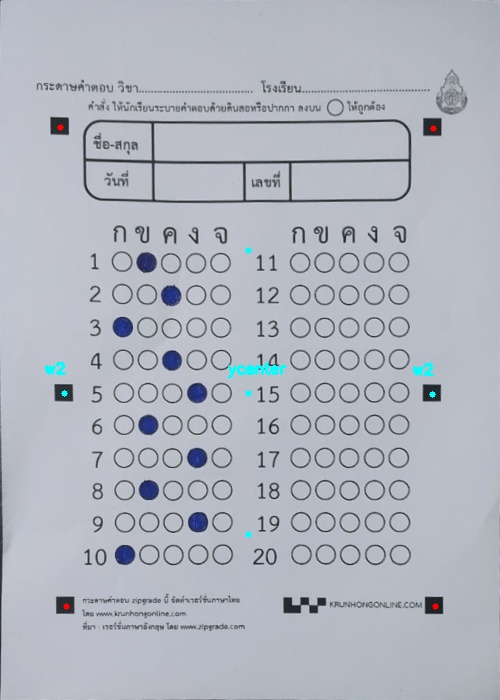
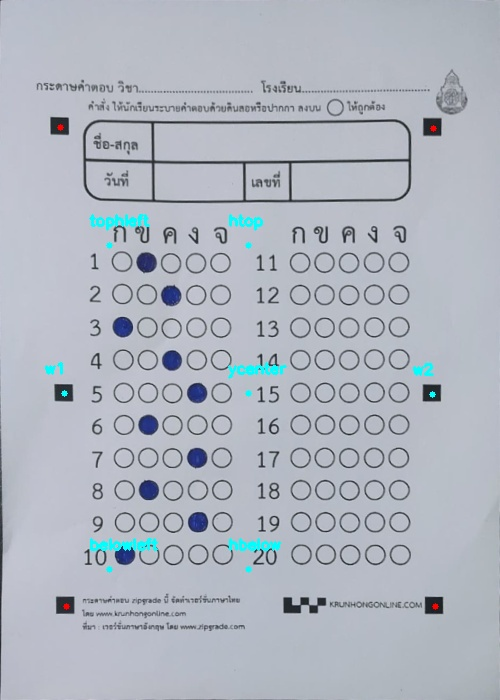
feat : add quick

diff --git a/Week9/AwswerSheetDetection/DetectVideos.py b/Week9/AwswerSheetDetection/DetectVideos.py
@@ -1,0 +1,208 @@
+import cv2
+import matplotlib.pyplot as plt
+import numpy as np
+import utils as ut
+import imutils
+
+
+def check_small_rectangles_centroid1(contours, img_contours, area_size=800):
+    centroids = []
+    for cnt in contours:
+        area = cv2.contourArea(cnt)
+        if area < area_size:
+            peri = cv2.arcLength(cnt, True)
+            approx = cv2.approxPolyDP(cnt, 0.02 * peri, True)
+            if len(approx) == 4:
+                M = cv2.moments(cnt)
+                cx = int(M['m10'] / M['m00'])
+                cy = int(M['m01'] / M['m00'])
+                cv2.circle(img_contours, (cx, cy), 3, (0, 0, 255), -1)
+                centroid = (cx, cy)
+                centroids.append(centroid)
+    return centroids, img_contours
+
+def puttext_on_image1(img, text, x, y):
+
+    cv2.putText(img, text, (x-20,y-20), cv2.FONT_HERSHEY_SIMPLEX, 0.5, (255, 255, 0), 2)
+    return img
+
+
+def find_big_rectangle(contours):
+    check = False
+    for c in contours:
+        area = cv2.contourArea(c)
+        # print(area)
+        arc_length = 0.15 * cv2.arcLength(c, True)  # Find the perimeter of closed curve 10%
+        no_of_points_found = cv2.approxPolyDP(c, arc_length, True)
+        if len(no_of_points_found) == 4:
+            main_contour = no_of_points_found
+            check = True
+            break
+    if check == True:
+        return main_contour
+    return []
+
+
+def get_iamge_frame():
+    if video:
+        _, frame = cap.read()
+        image = frame.copy()
+    else:
+        image = cv2.imread('papersheet4.jpg')
+    return image
+
+
+def resize_image(image):
+    if image.shape[0] > image.shape[1]:
+        r = 600.0 / image.shape[1]
+        dim = (1000, int(image.shape[1] * r))
+    else:
+        r = 600.0 / image.shape[1]
+        dim = (int(image.shape[1] * r), 1000)
+    image = cv2.resize(image, dim)
+    return image
+
+
+def set_main_contour_pointer_rectengle(main_contour):
+    topleft = main_contour[1][0]
+    top_right = main_contour[0][0]
+    bottom_left = main_contour[2][0]
+    bottom_right = main_contour[3][0]
+    pointers1 = np.float32([topleft, top_right, bottom_left, bottom_right])
+    pointers2 = np.float32([[0, 0], [sizepaper[0], 0], [0, sizepaper[1]], [sizepaper[0], sizepaper[1]]])
+    matrix = cv2.getPerspectiveTransform(pointers1, pointers2)
+    return matrix
+
+
+def check_small_rectangles(contours, area_size=800):
+    rectengle_cnts = []
+    for cnt in contours:
+        area = cv2.contourArea(cnt)
+        if area < area_size:
+            peri = cv2.arcLength(cnt, True)
+            approx = cv2.approxPolyDP(cnt, 0.02 * peri, True)
+            if len(approx) == 4:
+                rectengle_cnts.append(cnt)
+    return rectengle_cnts
+
+
+
+sizepaper = (widthImg, heightImg) = (500, 700)
+cap = cv2.VideoCapture(0, cv2.CAP_DSHOW)
+video = True
+ut.initializetrackbars()
+while True:
+    image = get_iamge_frame()
+    # image = resize_image(org)
+    # cv2.imshow("Original", frame)
+    copy = image.copy()
+    image = cv2.cvtColor(image, cv2.COLOR_BGR2GRAY)
+    image = cv2.bilateralFilter(image, 5, 21, 21)  # Blur the image for better edge detection
+    # Edge detection using canny algorithm
+    edged = cv2.Canny(image, 30, 160)
+    (contours, _) = cv2.findContours(edged, cv2.RETR_EXTERNAL, cv2.CHAIN_APPROX_SIMPLE)
+    contours = sorted(contours, key=cv2.contourArea, reverse=True)[:10]
+    img = image.copy()
+    # cv2.drawContours(img,contours,-1,color=(255, 255, 255),thickness = 2)
+    main_contour = find_big_rectangle(contours)
+    img = cv2.cvtColor(img, cv2.COLOR_GRAY2BGR)
+    if len(main_contour) != 0:
+        cv2.drawContours(img, [main_contour], -1, (0, 255, 0), 2)
+        # Set Pointer Rectengle
+        matrix_paper = set_main_contour_pointer_rectengle(main_contour)
+        cropper_paper = cv2.warpPerspective(copy, matrix_paper, sizepaper)
+        cv2.imshow("Cropped", cropper_paper)
+        imageResult = cropper_paper.copy()
+        # WRAPPER SMALL RECTANGLES IN PAGE
+        cv2.waitKey(1)
+        # cv2.imwrite('cropper.jpg', imageResult)
+        ##################################################################################################
+        imgGray = cv2.cvtColor(imageResult, cv2.COLOR_BGR2GRAY)
+        imgGray = cv2.GaussianBlur(imageResult, (7, 7), 0)
+        # imgThresh = cv2.adaptiveThreshold(imgGray, 255, cv2.ADAPTIVE_THRESH_GAUSSIAN_C, cv2.THRESH_BINARY_INV, 11, 2)
+        thres, area_size = ut.valtrackbars()  # GET TRACK BAR VALUES FOR THRESHOLDS
+        imgThresholdCanny = cv2.Canny(imgGray, thres[0], thres[1])
+        kernel = np.ones((2, 2))
+        imgDial = cv2.dilate(imgThresholdCanny, np.ones((2, 2)), iterations=2)  # APPLY DILATION
+        imgThresholdCanny2 = cv2.erode(imgDial, kernel, iterations=1)  # APPLY EROSION
+        # cv2.imshow("Canny", imgThresholdCanny)
+        # cv2.imshow("imgDial", imgDial)
+        # cv2.imshow("imgThresholdCanny2", imgThresholdCanny2)
+        # cv2.waitKey(1)
+
+        ## FIND ALL COUNTOURS
+        imgContours = imageResult.copy()  # COPY IMAGE FOR DISPLAY PURPOSES
+        imgBigContour = imageResult.copy()  # COPY IMAGE FOR DISPLAY PURPOSES
+        contours, hierarchy = cv2.findContours(imgThresholdCanny2, cv2.RETR_EXTERNAL,
+                                               cv2.CHAIN_APPROX_SIMPLE)  # FIND ALL CONTOURS
+        centroids, imgContours = check_small_rectangles_centroid1(contours, imgContours, area_size)
+
+        # sort the centroids by y coordinate
+        if len(centroids) > 0 and len(centroids) == 6:
+            centroids = sorted(centroids, key=lambda x: x[1])
+            if centroids[2][0] < centroids[3][0]:
+                w1 = centroids[2]
+                w2 = centroids[3]
+            else:
+                w1 = centroids[3]
+                w2 = centroids[2]
+            ycenter = [(((w2[0] - w1[0]) // 2) + w1[0]), w1[1]]
+            htopcenter = [ycenter[0], (ycenter[1] - centroids[0][1]) // 2 + centroids[0][1] - 15]
+            hbelowcenter = [ycenter[0], (centroids[-1][1] - ycenter[1]) // 2 + ycenter[1] + 70]
+            tophleft = [w1[0] + 45, htopcenter[1]]
+            belowleft = [w1[0] + 45, hbelowcenter[1]]
+            pstC1 = np.float32([tophleft, htopcenter, belowleft, hbelowcenter])
+            pstC2 = np.float32([[0, 0], [175, 0], [0, 320], [175, 320]])
+
+            # write color
+            cv2.circle(imgContours, w1, 3, (255, 255, 0), -1)
+            imgContours = puttext_on_image1(imgContours, 'w1', w1[0], w1[1])
+            cv2.circle(imgContours, w2, 3, (255, 255, 0), -1)
+            imgContours = puttext_on_image1(imgContours, "w2", w2[0], w2[1])
+            cv2.circle(imgContours, ycenter, 3, (255, 255, 0), -1)
+            imgContours = puttext_on_image1(imgContours, "ycenter", ycenter[0], ycenter[1])
+            cv2.circle(imgContours, htopcenter, 3, (255, 255, 0), -1)
+            imgContours = puttext_on_image1(imgContours, "htop", htopcenter[0], htopcenter[1])
+            cv2.circle(imgContours, hbelowcenter, 3, (255, 255, 0), -1)
+            imgContours = puttext_on_image1(imgContours, "hbelow", hbelowcenter[0], hbelowcenter[1])
+            cv2.circle(imgContours, tophleft, 3, (255, 255, 0), -1)
+            imgContours = puttext_on_image1(imgContours, "tophleft", tophleft[0], tophleft[1])
+            cv2.circle(imgContours, belowleft, 3, (255, 255, 0), -1)
+            imgContours = puttext_on_image1(imgContours, "belowleft", belowleft[0], belowleft[1])
+
+            # checkimg = ut.four_point_transform(imgBigContour, wrapPoints)
+
+            matrix1 = cv2.getPerspectiveTransform(pstC1, pstC2)
+            croper1 = cv2.warpPerspective(imgBigContour, matrix1, (175, 320))
+            gray = cv2.cvtColor(croper1, cv2.COLOR_BGR2GRAY)
+            # blur1 = cv2.GaussianBlur(gray, (3, 3), 0)
+            thresh = cv2.threshold(gray, 0, 255, cv2.THRESH_BINARY_INV | cv2.THRESH_OTSU)[1]
+            # thresh = cv2.erode(thresh, None, iterations=3)
+            cnts = cv2.findContours(thresh, cv2.RETR_EXTERNAL, cv2.CHAIN_APPROX_SIMPLE)
+            cnts = imutils.grab_contours(cnts)
+            CntEdits = []
+            centroids1 = []
+            for c in cnts:
+                area = cv2.contourArea(c)
+                peri = cv2.arcLength(c, True)
+                approx = cv2.approxPolyDP(c, 0.02 * peri, True)
+                if len(approx) > 4:
+                    M = cv2.moments(c)
+                    cx = int(M['m10'] / M['m00'])
+                    cy = int(M['m01'] / M['m00'])
+                    cv2.circle(croper1, (cx, cy), 3, (0, 255, 0), -1)
+                    # cv2.drawContours(croper1, [approx], 0, (0, 255, 0),)
+                    centroid = (cx, cy)
+                    centroids1.append(centroid)
+            cv2.imshow("croper", croper1)
+
+            cv2.imshow("thresh", thresh)
+
+        # cv2.imwrite("choine.jpg", imgContours)
+        cv2.imshow("Contours", imgContours)
+        cv2.waitKey(1)
+
+
+    img = cv2.resize(img, (img.shape[0] // 2, img.shape[1] // 2))
+    cv2.imshow("Main outline", img)
+    cv2.waitKey(1)

diff --git a/Week9/AwswerSheetDetection/DetectChoine.py b/Week9/AwswerSheetDetection/DetectChoine.py
@@ -5,8 +5,7 @@ import utils as ut
 import imutils
 from skimage import measure, morphology
 
-
-def check_small_rectangles_centroid(contours, img_contours,area_size=800):
+def check_small_rectangles_centroid1(contours, img_contours, area_size=800):
     centroids = []
     for cnt in contours:
         area = cv2.contourArea(cnt)
@@ -22,7 +21,7 @@ def check_small_rectangles_centroid(contours, img_contours,area_size=800):
                 centroids.append(centroid)
     return centroids, img_contours
 
-def puttext_on_image(img, text, x, y):
+def puttext_on_image1(img, text, x, y):
 
     cv2.putText(img, text, (x-20,y-20), cv2.FONT_HERSHEY_SIMPLEX, 0.5, (255, 255, 0), 2)
     return img
@@ -45,15 +44,15 @@ while True:
     # cv2.imshow("imgDial", imgDial)
     # cv2.imshow("imgThresholdCanny2", imgThresholdCanny2)
     # cv2.waitKey(1)
-    
-    
-    
+
+
+
      ## FIND ALL COUNTOURS
     imgContours = imageResult.copy()  # COPY IMAGE FOR DISPLAY PURPOSES
     imgBigContour = imageResult.copy()  # COPY IMAGE FOR DISPLAY PURPOSES
     contours, hierarchy = cv2.findContours(imgThresholdCanny2, cv2.RETR_EXTERNAL, cv2.CHAIN_APPROX_SIMPLE)  # FIND ALL CONTOURS
-    centroids, imgContours = check_small_rectangles_centroid(contours, imgContours, area_size)
-    
+    centroids, imgContours = check_small_rectangles_centroid1(contours, imgContours, area_size)
+
     # sort the centroids by y coordinate
     if len(centroids) > 0 and len(centroids) == 6:
         centroids = sorted(centroids, key=lambda x: x[1])
@@ -63,39 +62,62 @@ while True:
         else:
             w1 = centroids[3]
             w2 = centroids[2]
-        ycenter = ((((w2[0]-w1[0]) // 2)+w1[0]) , w1[1])
-        htopcenter = (ycenter[0] ,(ycenter[1]-centroids[0][1])// 2 + centroids[0][1] -10)
-        hbelowcenter = (ycenter[0], (centroids[-1][1]-ycenter[1])// 2 +ycenter[1]+70)
-        tophleft = (w1[0]+10, htopcenter[1])
-        belowleft = (w1[0]+10, hbelowcenter[1])
-        wrapPoints = (tophleft, hbelowcenter, hbelowcenter, belowleft )
-        
+        ycenter = [(((w2[0]-w1[0]) // 2)+w1[0]) , w1[1]]
+        htopcenter = [ycenter[0] ,(ycenter[1]-centroids[0][1])// 2 + centroids[0][1] -15]
+        hbelowcenter = [ycenter[0], (centroids[-1][1]-ycenter[1])// 2 +ycenter[1]+70]
+        tophleft = [w1[0]+45, htopcenter[1]]
+        belowleft = [w1[0]+45, hbelowcenter[1]]
+        pstC1 = np.float32([tophleft, htopcenter, belowleft, hbelowcenter])
+        pstC2 = np.float32([[0, 0], [175, 0], [0, 320], [175, 320]])
+
+
+        # write color
         cv2.circle(imgContours, w1, 3, (255, 255, 0), -1)
-        imgContours = puttext_on_image(imgContours, 'w1', w1[0], w1[1])
+        imgContours = puttext_on_image1(imgContours, 'w1', w1[0], w1[1])
         cv2.circle(imgContours, w2, 3, (255, 255, 0), -1)
-        imgContours = puttext_on_image(imgContours, "w2", w2[0], w2[1])
+        imgContours = puttext_on_image1(imgContours, "w2", w2[0], w2[1])
         cv2.circle(imgContours, ycenter, 3, (255, 255, 0), -1)
-        imgContours = puttext_on_image(imgContours, "ycenter", ycenter[0], ycenter[1])
+        imgContours = puttext_on_image1(imgContours, "ycenter", ycenter[0], ycenter[1])
         cv2.circle(imgContours, htopcenter, 3, (255, 255, 0), -1)
-        imgContours = puttext_on_image(imgContours, "htop", htopcenter[0], htopcenter[1])
+        imgContours = puttext_on_image1(imgContours, "htop", htopcenter[0], htopcenter[1])
         cv2.circle(imgContours, hbelowcenter, 3, (255, 255, 0), -1)
-        imgContours = puttext_on_image(imgContours, "hbelow", hbelowcenter[0], hbelowcenter[1])
+        imgContours = puttext_on_image1(imgContours, "hbelow", hbelowcenter[0], hbelowcenter[1])
         cv2.circle(imgContours, tophleft, 3, (255, 255, 0), -1)
-        imgContours = puttext_on_image(imgContours, "tophleft", tophleft[0], tophleft[1])
+        imgContours = puttext_on_image1(imgContours, "tophleft", tophleft[0], tophleft[1])
         cv2.circle(imgContours, belowleft, 3, (255, 255, 0), -1)
-        imgContours = puttext_on_image(imgContours, "belowleft", belowleft[0], belowleft[1])
-        
-        
+        imgContours = puttext_on_image1(imgContours, "belowleft", belowleft[0], belowleft[1])
+
+
         # checkimg = ut.four_point_transform(imgBigContour, wrapPoints)
-        gray = cv2.cvtColor(imgBigContour, cv2.COLOR_BGR2GRAY)
-        thresh = cv2.threshold(imgGray, 0, 255, cv2.THRESH_BINARY_INV | cv2.THRESH_OTSU)[1]
-        thresh = cv2.erode(thresh, None, iterations=3)
-        cv2.imshow("thresh", thresh)
+
+        matrix1 = cv2.getPerspectiveTransform(pstC1, pstC2)
+        croper1 = cv2.warpPerspective(imgBigContour, matrix1, (175, 320))
+        gray = cv2.cvtColor(croper1, cv2.COLOR_BGR2GRAY)
+        # blur1 = cv2.GaussianBlur(gray, (3, 3), 0)
+        thresh = cv2.threshold(gray, 0, 255, cv2.THRESH_BINARY_INV | cv2.THRESH_OTSU)[1]
+        # thresh = cv2.erode(thresh, None, iterations=3)
         cnts = cv2.findContours(thresh, cv2.RETR_EXTERNAL, cv2.CHAIN_APPROX_SIMPLE)
         cnts = imutils.grab_contours(cnts)
-        
-    Choine = (120, 145, 170, 195, 220) # A, B, C, D, E
-    
-    # cv2.imwrite("choine.jpg", imgContours)
+        CntEdits = []
+        centroids1 = []
+        for c in cnts:
+            area = cv2.contourArea(c)
+            peri = cv2.arcLength(c, True)
+            approx = cv2.approxPolyDP(c, 0.02 * peri, True)
+            if len(approx) > 4:
+                M = cv2.moments(c)
+                cx = int(M['m10'] / M['m00'])
+                cy = int(M['m01'] / M['m00'])
+                cv2.circle(croper1, (cx, cy), 3, (0, 255, 0), -1)
+                # cv2.drawContours(croper1, [approx], 0, (0, 255, 0),)
+                centroid = (cx, cy)
+                centroids1.append(centroid)
+        cv2.imshow("croper", croper1)
+
+
+        cv2.imshow("thresh", thresh)
+
+
+    cv2.imwrite("choine.jpg", imgContours)
     cv2.imshow("Contours", imgContours)
     cv2.waitKey(1)

diff --git a/Week9/AwswerSheetDetection/AwserSheetDetectVerVideo.py b/Week9/AwswerSheetDetection/AwserSheetDetectVerVideo.py
@@ -1,11 +1,6 @@
-from ctypes import pointer
-from tkinter import image_names
-from turtle import right
 import cv2
 import matplotlib.pyplot as plt
 import numpy as np
-from skimage import measure, morphology
-# import utils file from Week9
 import utils as ut
 
 def find_big_rectangle(contours):
@@ -64,7 +59,7 @@ def check_small_rectangles(contours, area_size=800):
     
 # sizepaper = (500,700)
 sizepaper = (widthImg, heightImg) = (500, 700)
-cap = cv2.VideoCapture(1, cv2.CAP_DSHOW)
+cap = cv2.VideoCapture(0, cv2.CAP_DSHOW)
 video = True
 
 ut.initializetrackbars()
@@ -91,38 +86,9 @@ while True:
         cv2.imshow("Cropped",cropper_paper)
         imageResult = cropper_paper.copy()
         # WRAPPER SMALL RECTANGLES IN PAGE
-        ## FIND ALL COUNTOURS SMALL RECTANGLES
-        imgGray = cv2.GaussianBlur(imageResult, (7, 7), 0)
-        """ imgGray = cv2.bilateralFilter(imgGray, d=5,sigmaColor=10,sigmaSpace=10) #Blur the image for better edge detection """
-        imgThresh = cv2.adaptiveThreshold(imgGray,255,cv2.ADAPTIVE_THRESH_GAUSSIAN_C,cv2.THRESH_BINARY,blockSize=13,C=3)
-        thres, area_size = ut.valtrackbars()  # GET TRACK BAR VALUES FOR THRESHOLDS
-        imgThresholdCanny = cv2.Canny(imgGray, thres[0], thres[1])
-        kernel = np.ones((2, 2))
-        imgDial = cv2.dilate(imgThresholdCanny, np.ones((2, 2)), iterations=2)  # APPLY DILATION
-        imgThresholdCanny2 = cv2.erode(imgDial, kernel, iterations=1)  # APPLY EROSION
-
-        # cv2.imshow("Canny", imgThresholdCanny)
-        # cv2.imshow("imgDial", imgDial)
-        # cv2.imshow("imgThresholdCanny2", imgThresholdCanny2)
-        # cv2.waitKey(1)
-
-        imgContours = imageResult.copy()  # COPY IMAGE FOR DISPLAY PURPOSES
-        imgBigContour = imageResult.copy()  # COPY IMAGE FOR DISPLAY PURPOSES
-        contours, hierarchy = cv2.findContours(imgThresholdCanny2, cv2.RETR_EXTERNAL,
-                                            cv2.CHAIN_APPROX_SIMPLE)  # FIND ALL CONTOURS
-        rectengleCnt = []
-        for cnt in contours:
-            area = cv2.contourArea(cnt)
-            if area < area_size:
-                peri = cv2.arcLength(cnt, True)
-                approx = cv2.approxPolyDP(cnt, 0.02 * peri, True)
-                if len(approx) == 4:
-                    rectengleCnt.append(cnt)
-        cv2.drawContours(imgContours, rectengleCnt,-1,(0,255,0),2)
-        cv2.imshow("Contours", imgContours)
         cv2.waitKey(1)
-        
-        
+        cv2.imwrite('cropper.jpg', imageResult)
+
         
         
         
